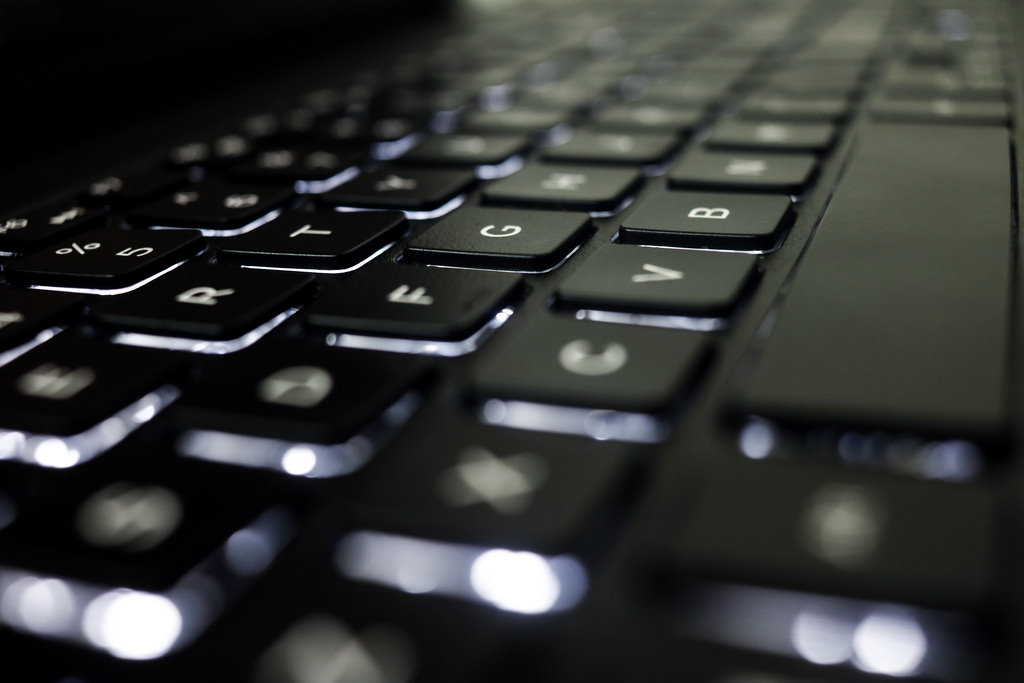
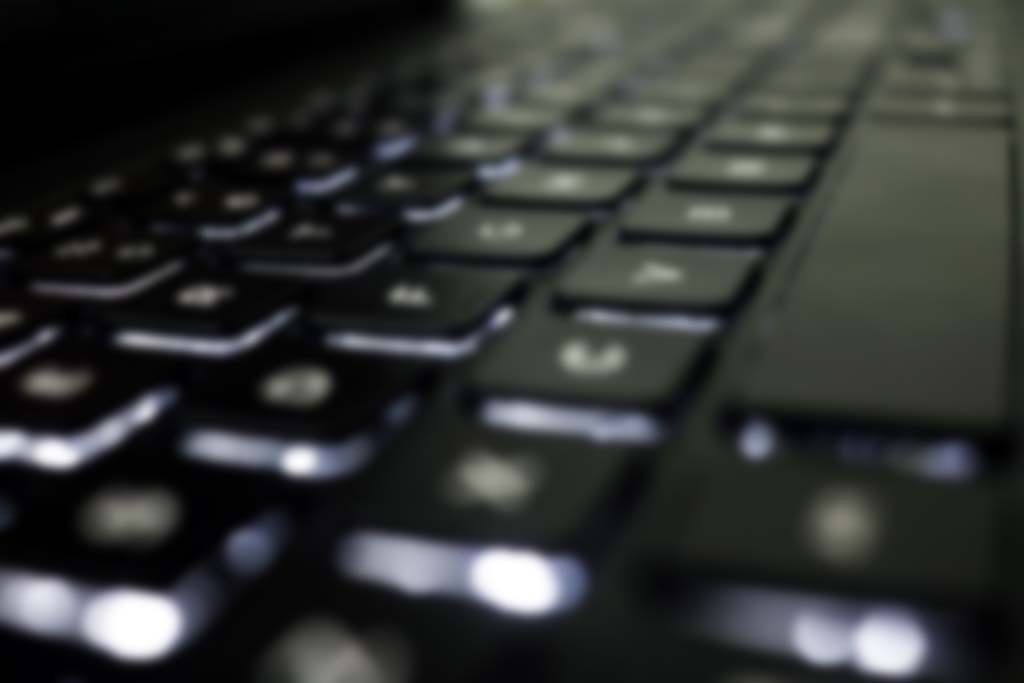
Changes

diff --git a/src/assets/styles/custom.css b/src/assets/styles/custom.css
@@ -441,10 +441,11 @@ h1 .sub-heading {
     letter-spacing: 4px;
     color: #fff;
 }
-.parallax .slides li>.background-image-holder, .parallax>.background-image-holder {
+
+/*.parallax .slides li>.background-image-holder, .parallax>.background-image-holder {
     filter: blur(5px) !important;
-}
-.overlay: before {
+}*/
+.overlay:before {
     opacity: .5 !important;
     background: rgb(0, 0, 0) !important;
 }
